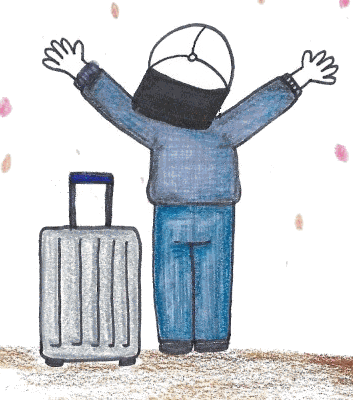
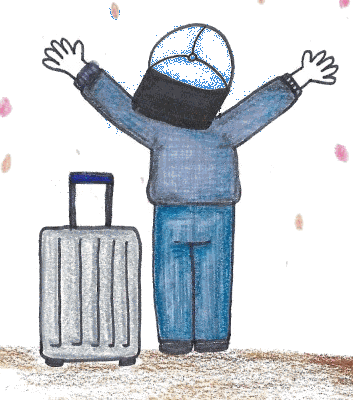
가독성 정돈 + 사계절 카드를 로고 음각+캐릭터 합성으로 교체
[사계절 카드] about.html '이름의 의미' 섹션
- 텍스트만 있던 어두운 outline 카드를, 실제 사진첩 삽화를 계절색 배경에
  올린 합성 이미지로 교체 (assets/img/season-{summer,autumn,winter,spring}.png)
- 로고와 같은 2x2 정사각형 실루엣을 하이라이트+그림자 오프셋으로 음각
  처리해 배경에 새김 — 원본 로고(3개는 얇은 테두리만 있는 outline)를 그대로
  워터마크로 쓰면 형태가 흐려져, 코드로 4개 모두 solid한 단순 실루엣을
  새로 그려 사용
- 재료: 여름=ch-surf.png, 봄=ch-spring.png(기존 자산), 가을·겨울은
  ill-autumn.jpg/ill-winter.jpg에서 인물만 크롭 후 색상 키(흰 배경→투명)
  해 새로 분리
- ch-spring.png의 비어 있던 헬멧 링을 브랜드 블루로 채움(다른 곳에서도
  이 파일을 참조하므로 원본 자체를 보정)
- 실제 참고 이미지(플랫 벡터 스타일)와는 화풍이 다름 — 원본 벡터 파일이
  없어 사이트에 이미 있는 크레용 삽화로 동일한 합성 구조만 재현했음

[가독성] programs.html
- 또또봄TV 문단 두 곳에 줄바꿈 추가(문장 경계에서 끊어 읽기 쉽게)
- 또봄클래스: 문단 4개 → 1문단 + 픽토그램 칩 2개(.prog-points)로 압축,
  '월 1회 개최를 목표로 하되…' 문구 삭제
- 앎 캠페인: 문단 2개 → 인용 카드 1개(.prog-quote)로 압축,
  '국내 반기 1회 · 해외 연 1회 목표' 문구 삭제

캐시 무효화를 위해 전 페이지(ko/en) style.css·main.js 버전을
?v=20260811a로 갱신.

Changed region(s): [[0.4363, 0.06, 0.6544, 0.24]]

diff --git a/programs.html b/programs.html
@@ -9,7 +9,7 @@
   <link rel="alternate" hreflang="en" href="https://nrhoon777.github.io/ddobom-website/en/programs.html" />
   <link rel="alternate" hreflang="x-default" href="https://nrhoon777.github.io/ddobom-website/programs.html" />
   <link rel="icon" type="image/png" href="assets/img/logo-square.png" />
-  <link rel="stylesheet" href="assets/css/style.css?v=20260810q" />
+  <link rel="stylesheet" href="assets/css/style.css?v=20260811a" />
 </head>
 <body>
   <a href="#main" class="skip-link">본문 바로가기</a>
@@ -56,23 +56,13 @@
         <img class="prog-img" src="assets/img/ddobom-cover.jpg" alt="또봄 브랜드 이미지 — 국내 최초 2030 청년암협회 또봄, I see U again" loading="lazy" />
         <p class="prog-hook">배우러 왔다가, 친구를 얻어 갑니다.</p>
         <p>
-          암을 겪은 청년들이 모여 서로의 재능을 나눕니다.
-          캘리그라피를 배우고, 사진을 찍고, 한의사에게 궁금한 걸 묻습니다.
+          <strong>배우는 건 핑계입니다.</strong> 캘리그라피, 사진, 한방 상담까지 —
+          같은 시간을 지나온 사람 옆에 앉는 두 시간이 진짜입니다.
         </p>
-        <p>
-          <strong>배우는 건 핑계입니다.</strong>
-          같은 시간을 지나온 사람 옆에 앉아 있는 두 시간이 진짜입니다.
-        </p>
-        <p>
-          모든 클래스는 그때 한 번뿐입니다. 같은 걸 다시 하려면 새 클래스가 열리길 기다려야 하니,
-          매번 새로운 걸 만나게 됩니다. 투병으로 잠시 놓았던 자기만의 재능을 다시 꺼내 나누며,
-          삶의 다음 여정을 시작하자는 마음으로 열었습니다.
-        </p>
-        <p>
-          수업이 끝난 뒤의 시간도 그만큼 중요합니다.
-          서로 공감하고 친구가 되는 그 시간이, 클래스를 만든 진짜 이유입니다.
-        </p>
-        <p class="prog-meta"><span aria-hidden="true">🗓</span> 월 1회 개최를 목표로 하되, 러닝 클래스 등 새로운 형태도 계속 시도합니다</p>
+        <div class="prog-points">
+          <span><svg viewBox="0 0 24 24" aria-hidden="true"><path d="M12 8v8M8 12h8"/><circle cx="12" cy="12" r="9"/></svg>매번 새로운 클래스</span>
+          <span><svg viewBox="0 0 24 24" aria-hidden="true"><path d="M17 21v-2a4 4 0 0 0-4-4H7a4 4 0 0 0-4 4v2"/><circle cx="10" cy="7" r="4"/><path d="M22 21v-2a4 4 0 0 0-3-3.87"/><path d="M16 3.13a4 4 0 0 1 0 7.75"/></svg>수업 후 이어지는 인연</span>
+        </div>
         <p style="font-weight:700; color:var(--color-ink); margin-bottom:6px;">그동안 함께한 클래스</p>
         <div class="class-tags">
           <span>캘리그라피</span><span>여행</span><span>식재료</span><span>뷰티</span>
@@ -121,14 +111,10 @@
       <div class="container prose">
         <h2><svg viewBox="0 0 24 24" aria-hidden="true" style="color:var(--brand-orange)"><path d="M22 2 11 13"/><path d="M22 2 15 22l-4-9-9-4 20-7Z"/></svg>앎 캠페인 — 여행 프로젝트</h2>
         <p class="prog-hook">또봄은 여행에서 시작됐습니다.</p>
-        <p>
-          말기암을 이겨낸 뒤 남은 확신은 하나였습니다.
-          <strong>버티겠다는 의지에는, 붙들 것이 하나 필요하다</strong>는 것.
-        </p>
-        <p>
-          또봄에게 그건 여행이었습니다.
-          &ldquo;다 나으면 저기 가야지.&rdquo; 그 한 문장이 항암치료를 견디게 합니다.
-        </p>
+        <blockquote class="prog-quote">
+          &ldquo;다 나으면 저기 가야지.&rdquo;
+          <span>붙들 것 하나가, 항암치료를 견디게 했습니다.</span>
+        </blockquote>
       </div>
 
       <!-- 1) 포토북 -->
@@ -210,9 +196,6 @@
         </div>
       </div>
 
-      <div class="container prose" style="margin-top:40px">
-        <p class="prog-meta"><span aria-hidden="true">✈</span> 국내 반기 1회 · 해외 연 1회 목표</p>
-      </div>
     </section>
 
     <!-- Cheer UP 곧, 봄 -->
@@ -269,10 +252,11 @@
         <h2><svg viewBox="0 0 24 24" aria-hidden="true" style="color:var(--brand-blue)"><circle cx="12" cy="12" r="10"/><path d="M10 8l6 4-6 4V8Z"/></svg>또또봄TV</h2>
         <p class="prog-hook">먼저 지나온 사람의 목소리로.</p>
         <p>
-          검색하면 정보는 나옵니다. 나오지 않는 건 &lsquo;겪어 보니 어땠는지&rsquo;입니다.
+          검색하면 정보는 나옵니다.<br />
+          나오지 않는 건 &lsquo;겪어 보니 어땠는지&rsquo;입니다.
         </p>
         <p>
-          역경을 이겨낸 이들을 인터뷰해 그 자리를 채웁니다.
+          역경을 이겨낸 이들을 인터뷰해 그 자리를 채웁니다.<br />
           정확한 정보와 진짜 경험을 한 편에 같이 담습니다.
         </p>
         <p><a href="https://www.youtube.com/@tvttottobomtv" target="_blank" rel="noopener noreferrer" class="btn btn--primary">또또봄TV 채널 보기 →</a></p>
@@ -343,6 +327,6 @@
     </div>
   </footer>
 
-  <script src="assets/js/main.js?v=20260810q"></script>
+  <script src="assets/js/main.js?v=20260811a"></script>
 </body>
 </html>

diff --git a/assets/css/style.css b/assets/css/style.css
@@ -1548,8 +1548,37 @@ a.video-more { display: grid; place-items: center; text-align: center; color: #f
 }
 .prog-meta span[aria-hidden] { font-size: 1rem; line-height: 1; }
 
+/* 픽토그램 요약 줄 — 긴 설명 문단 대신 아이콘+짧은 라벨로 */
+.prog-points { display: flex; flex-wrap: wrap; gap: 10px; margin: var(--space-3) 0 var(--space-4); }
+.prog-points span {
+  display: inline-flex; align-items: center; gap: 7px;
+  background: var(--color-primary-light); color: var(--color-primary-dark);
+  font-weight: 700; font-size: 0.9rem;
+  padding: 8px 14px 8px 10px; border-radius: var(--radius-pill);
+}
+.prog-points svg {
+  width: 20px; height: 20px; flex: none;
+  stroke: currentColor; fill: none; stroke-width: 1.8;
+  stroke-linecap: round; stroke-linejoin: round;
+}
+
+/* 긴 설명 문단을 대신하는 한 줄 인용 카드 */
+.prog-quote {
+  margin: 0 0 var(--space-4); padding: 18px 22px;
+  border-left: 4px solid var(--color-secondary);
+  background: var(--color-bg-soft); border-radius: 0 var(--radius) var(--radius) 0;
+  font-family: var(--font-head); font-weight: 800;
+  font-size: clamp(1.05rem, 2.4vw, 1.3rem); color: var(--color-ink);
+}
+.prog-quote span {
+  display: block; margin-top: 6px;
+  font-family: var(--font-base); font-weight: 500; font-size: 0.92rem;
+  color: var(--color-ink-soft);
+}
+
 @media (max-width: 767px) {
   .prog-hook { font-size: 1.2rem; }
+  .prog-points span { font-size: 0.84rem; padding: 7px 12px 7px 9px; }
 }
 
 /* 영상 카드 자막: 재생 컨트롤 바와 겹치던 문제 → 상단으로 이동 */
@@ -2249,20 +2278,16 @@ a.video-more { display: grid; place-items: center; text-align: center; color: #f
 /* 로고와 같은 2×2 배치 — 순서 혼동을 없앤다 */
 .season { display: grid; grid-template-columns: 1fr 1fr; gap: var(--space-4); list-style: none; padding: 0; margin: 0;
   max-width: 480px; margin-inline: auto; }
-.season__it { position: relative; padding: var(--space-5) var(--space-4) var(--space-4);
-  border-radius: var(--radius); border: 2px solid; background: rgba(255,255,255,0.05); }
-.s-summer { border-color: #3f8edc; }
-.s-fall   { border-color: #f06f2c; }
-.s-winter { border-color: #8455c9; }
-.s-spring { border-color: #17b39a; }
-.season__no { position: absolute; top: -12px; left: 50%; transform: translateX(-50%);
-  width: 24px; height: 24px; border-radius: 50%; display: grid; place-items: center;
-  font-size: 0.78rem; font-weight: 800; color: #0d1a2e; }
-.s-summer .season__no { background: #3f8edc; color: #fff; }
-.s-fall   .season__no { background: #f06f2c; color: #fff; }
-.s-winter .season__no { background: #8455c9; color: #fff; }
-.s-spring .season__no { background: #17b39a; color: #fff; }
-.season__it { text-align: center; }
+.season__it { position: relative; padding: 0; text-align: center; }
+.season__img { width: 100%; aspect-ratio: 1 / 1; border-radius: var(--radius-lg);
+  display: block; margin-bottom: var(--space-3); box-shadow: var(--shadow); }
+.season__no { position: absolute; top: -10px; left: -10px; z-index: 1;
+  width: 26px; height: 26px; border-radius: 50%; display: grid; place-items: center;
+  font-size: 0.8rem; font-weight: 800; color: #fff; box-shadow: 0 2px 6px rgba(0,0,0,0.35); }
+.s-summer .season__no { background: #3f8edc; }
+.s-fall   .season__no { background: #f06f2c; }
+.s-winter .season__no { background: #8455c9; }
+.s-spring .season__no { background: #17b39a; }
 .season__it b { display: block; font-size: 1.05rem; color: #fff; margin-bottom: 4px; }
 .season__it span { display: block; font-size: 0.85rem; line-height: 1.6; color: rgba(255,255,255,0.72); }
 
@@ -2704,7 +2729,7 @@ a.video-more { display: grid; place-items: center; text-align: center; color: #f
    =========================================================== */
 .prose { word-break: keep-all; overflow-wrap: break-word; }
 .prose p { line-height: 1.9; font-size: 1.05rem; }
-.prose h2, .prose h3, .prose li { word-break: keep-all; }
+.prose h2, .prose h3, .prose li, .prog-quote, .prog-points { word-break: keep-all; }
 .prose li { line-height: 1.85; }
 
 /* 활동 소개 블록도 같은 기준으로 */

diff --git a/about.html b/about.html
@@ -9,7 +9,7 @@
   <link rel="alternate" hreflang="en" href="https://nrhoon777.github.io/ddobom-website/en/about.html" />
   <link rel="alternate" hreflang="x-default" href="https://nrhoon777.github.io/ddobom-website/about.html" />
   <link rel="icon" type="image/png" href="assets/img/logo-square.png" />
-  <link rel="stylesheet" href="assets/css/style.css?v=20260810q" />
+  <link rel="stylesheet" href="assets/css/style.css?v=20260811a" />
 </head>
 <body>
   <a href="#main" class="skip-link">본문 바로가기</a>
@@ -296,18 +296,22 @@
           <ol class="season">
             <li class="season__it s-summer">
               <span class="season__no" aria-hidden="true">1</span>
+              <img class="season__img" src="assets/img/season-summer.png" alt="" loading="lazy" />
               <b>여름</b><span>암을 만나기 전,<br />가장 건강하던 날</span>
             </li>
             <li class="season__it s-fall">
               <span class="season__no" aria-hidden="true">2</span>
+              <img class="season__img" src="assets/img/season-autumn.png" alt="" loading="lazy" />
               <b>가을</b><span>진단을 받고,<br />혼자가 되던 날</span>
             </li>
             <li class="season__it s-spring">
               <span class="season__no" aria-hidden="true">4</span>
+              <img class="season__img" src="assets/img/season-spring.png" alt="" loading="lazy" />
               <b>봄</b><span>그 겨울을 이겨내고<br />맞은 계절</span>
             </li>
             <li class="season__it s-winter">
               <span class="season__no" aria-hidden="true">3</span>
+              <img class="season__img" src="assets/img/season-winter.png" alt="" loading="lazy" />
               <b>겨울</b><span>가장 혹독했던<br />치료의 시간</span>
             </li>
           </ol>
@@ -498,6 +502,6 @@
     </div>
   </footer>
 
-  <script src="assets/js/main.js?v=20260810q"></script>
+  <script src="assets/js/main.js?v=20260811a"></script>
 </body>
 </html>

diff --git a/letter-2026-summer.html b/letter-2026-summer.html
@@ -7,7 +7,7 @@
   <meta name="description" content="여름은 다들 떠나는 계절입니다. 그 여름에 병실에 있는 사람에게 보내는 편지. 페루 마추픽추, 산정특례 30일 규칙과 연말정산 장애인 공제, 그리고 2025년에 한 일." />
   <link rel="alternate" hreflang="ko" href="https://nrhoon777.github.io/ddobom-website/letter-2026-summer.html" />
   <link rel="icon" type="image/png" href="assets/img/logo-square.png" />
-  <link rel="stylesheet" href="assets/css/style.css?v=20260810q" />
+  <link rel="stylesheet" href="assets/css/style.css?v=20260811a" />
 </head>
 <body>
   <a href="#main" class="skip-link">본문 바로가기</a>
@@ -339,6 +339,6 @@
     </div>
   </footer>
 
-  <script src="assets/js/main.js?v=20260810q"></script>
+  <script src="assets/js/main.js?v=20260811a"></script>
 </body>
 </html>

diff --git a/letters.html b/letters.html
@@ -7,7 +7,7 @@
   <meta name="description" content="계절마다 한 번, 네 번에 걸쳐 한 해를 도는 또봄의 편지. 여름·가을·겨울·봄, 또봄 로고의 네 네모와 같은 순서입니다." />
   <link rel="alternate" hreflang="ko" href="https://nrhoon777.github.io/ddobom-website/letters.html" />
   <link rel="icon" type="image/png" href="assets/img/logo-square.png" />
-  <link rel="stylesheet" href="assets/css/style.css?v=20260810q" />
+  <link rel="stylesheet" href="assets/css/style.css?v=20260811a" />
 </head>
 <body>
   <a href="#main" class="skip-link">본문 바로가기</a>
@@ -164,6 +164,6 @@
     </div>
   </footer>
 
-  <script src="assets/js/main.js?v=20260810q"></script>
+  <script src="assets/js/main.js?v=20260811a"></script>
 </body>
 </html>

diff --git a/travel-peru.html b/travel-peru.html
@@ -7,7 +7,7 @@
   <meta name="description" content="이카, 나스카, 마추픽추, 쿠스코, 우유니, 69호수. 회복기의 몸을 기준으로 고도순으로 정리한 페루 여행 안내입니다." />
   <link rel="alternate" hreflang="ko" href="https://nrhoon777.github.io/ddobom-website/travel-peru.html" />
   <link rel="icon" type="image/png" href="assets/img/logo-square.png" />
-  <link rel="stylesheet" href="assets/css/style.css?v=20260810q" />
+  <link rel="stylesheet" href="assets/css/style.css?v=20260811a" />
 </head>
 <body>
   <a href="#main" class="skip-link">본문 바로가기</a>
@@ -216,6 +216,6 @@
     </div>
   </footer>
 
-  <script src="assets/js/main.js?v=20260810q"></script>
+  <script src="assets/js/main.js?v=20260811a"></script>
 </body>
 </html>

diff --git a/story-bucketbook.html b/story-bucketbook.html
@@ -7,7 +7,7 @@
   <meta name="description" content="말기암을 이겨낸 뒤 떠난 80일간의 여행. 그 사진으로 만든 포토북을 병원에 전한 2018년 프로젝트 기록입니다." />
   <link rel="alternate" hreflang="ko" href="https://nrhoon777.github.io/ddobom-website/story-bucketbook.html" />
   <link rel="icon" type="image/png" href="assets/img/logo-square.png" />
-  <link rel="stylesheet" href="assets/css/style.css?v=20260810q" />
+  <link rel="stylesheet" href="assets/css/style.css?v=20260811a" />
 </head>
 <body>
   <a href="#main" class="skip-link">본문 바로가기</a>
@@ -238,6 +238,6 @@
     </div>
   </footer>
 
-  <script src="assets/js/main.js?v=20260810q"></script>
+  <script src="assets/js/main.js?v=20260811a"></script>
 </body>
 </html>

diff --git a/index.html b/index.html
@@ -12,7 +12,7 @@
   <link rel="alternate" hreflang="en" href="https://nrhoon777.github.io/ddobom-website/en/index.html" />
   <link rel="alternate" hreflang="x-default" href="https://nrhoon777.github.io/ddobom-website/index.html" />
   <link rel="icon" type="image/png" href="assets/img/logo-square.png" />
-  <link rel="stylesheet" href="assets/css/style.css?v=20260810q" />
+  <link rel="stylesheet" href="assets/css/style.css?v=20260811a" />
 </head>
 <body>
   <a href="#main" class="skip-link">본문 바로가기</a>
@@ -448,7 +448,7 @@
     </div>
   </footer>
 
-  <script src="assets/js/main.js?v=20260810q"></script>
+  <script src="assets/js/main.js?v=20260811a"></script>
   <script type="module" src="assets/js/news-loader.js?v=20260807f"></script>
 </body>
 </html>

diff --git a/story-cheerup.html b/story-cheerup.html
@@ -7,7 +7,7 @@
   <meta name="description" content="암 경험자와 시민이 한자리에서 이야기하고 노래하는 토크·싱 콘서트. 2023년부터 네 번 열린 기록입니다." />
   <link rel="alternate" hreflang="ko" href="https://nrhoon777.github.io/ddobom-website/story-cheerup.html" />
   <link rel="icon" type="image/png" href="assets/img/logo-square.png" />
-  <link rel="stylesheet" href="assets/css/style.css?v=20260810q" />
+  <link rel="stylesheet" href="assets/css/style.css?v=20260811a" />
 </head>
 <body>
   <a href="#main" class="skip-link">본문 바로가기</a>
@@ -167,6 +167,6 @@
     </div>
   </footer>
 
-  <script src="assets/js/main.js?v=20260810q"></script>
+  <script src="assets/js/main.js?v=20260811a"></script>
 </body>
 </html>

diff --git a/story-gift-2020.html b/story-gift-2020.html
@@ -7,7 +7,7 @@
   <meta name="description" content="코로나로 만남이 어려웠던 2020년 겨울, 투병 중인 청년에게 여행 포토북을 보낸 캠페인 기록입니다." />
   <link rel="alternate" hreflang="ko" href="https://nrhoon777.github.io/ddobom-website/story-gift-2020.html" />
   <link rel="icon" type="image/png" href="assets/img/logo-square.png" />
-  <link rel="stylesheet" href="assets/css/style.css?v=20260810q" />
+  <link rel="stylesheet" href="assets/css/style.css?v=20260811a" />
 </head>
 <body>
   <a href="#main" class="skip-link">본문 바로가기</a>
@@ -133,6 +133,6 @@
     </div>
   </footer>
 
-  <script src="assets/js/main.js?v=20260810q"></script>
+  <script src="assets/js/main.js?v=20260811a"></script>
 </body>
 </html>

diff --git a/en/story-bucketbook.html b/en/story-bucketbook.html
@@ -8,7 +8,7 @@
   <link rel="alternate" hreflang="ko" href="https://nrhoon777.github.io/ddobom-website/story-bucketbook.html" />
   <link rel="alternate" hreflang="en" href="https://nrhoon777.github.io/ddobom-website/en/story-bucketbook.html" />
   <link rel="icon" type="image/png" href="../assets/img/logo-square.png" />
-  <link rel="stylesheet" href="../assets/css/style.css?v=20260810q" />
+  <link rel="stylesheet" href="../assets/css/style.css?v=20260811a" />
 </head>
 <body>
   <a href="#main" class="skip-link">Skip to content</a>
@@ -273,6 +273,6 @@
     </div>
   </footer>
 
-  <script src="../assets/js/main.js?v=20260810q"></script>
+  <script src="../assets/js/main.js?v=20260811a"></script>
 </body>
 </html>

diff --git a/en/story-gift-2020.html b/en/story-gift-2020.html
@@ -8,7 +8,7 @@
   <link rel="alternate" hreflang="ko" href="https://nrhoon777.github.io/ddobom-website/story-gift-2020.html" />
   <link rel="alternate" hreflang="en" href="https://nrhoon777.github.io/ddobom-website/en/story-gift-2020.html" />
   <link rel="icon" type="image/png" href="../assets/img/logo-square.png" />
-  <link rel="stylesheet" href="../assets/css/style.css?v=20260810q" />
+  <link rel="stylesheet" href="../assets/css/style.css?v=20260811a" />
 </head>
 <body>
   <a href="#main" class="skip-link">Skip to content</a>
@@ -174,6 +174,6 @@
     </div>
   </footer>
 
-  <script src="../assets/js/main.js?v=20260810q"></script>
+  <script src="../assets/js/main.js?v=20260811a"></script>
 </body>
 </html>
